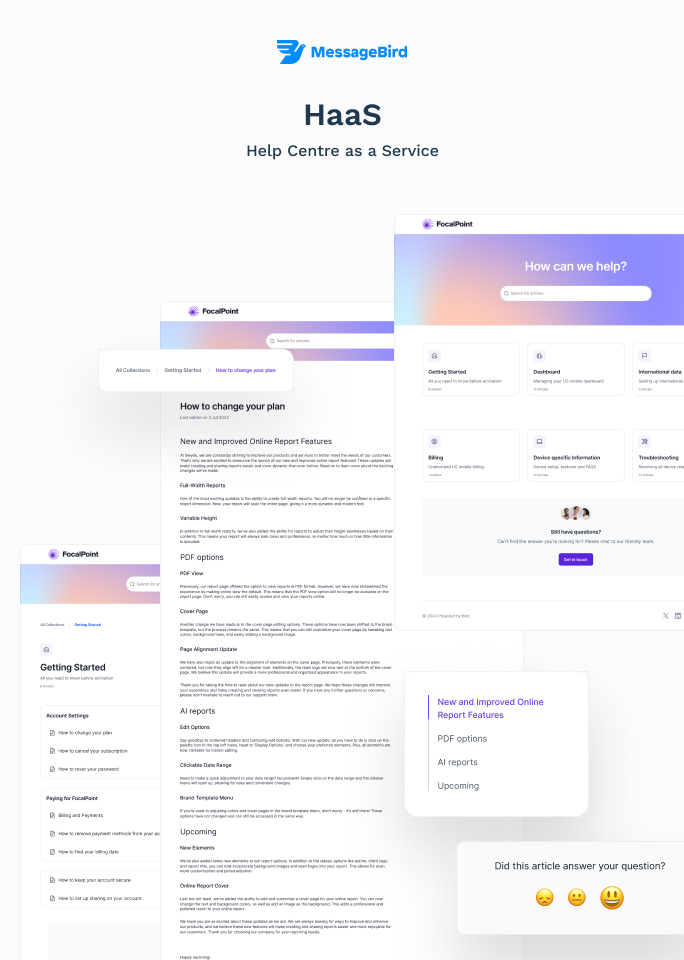
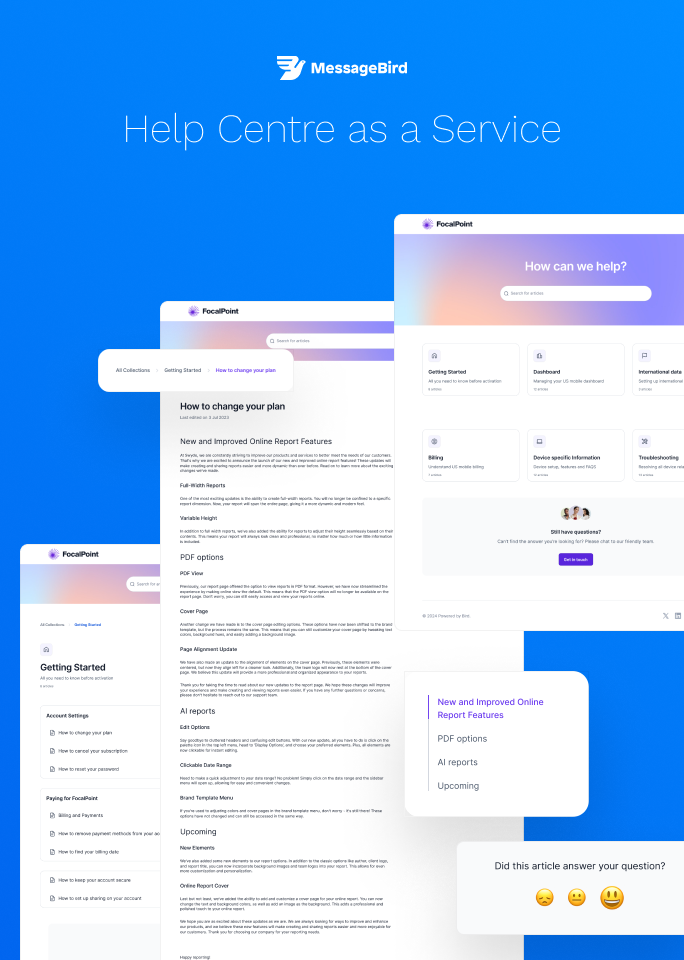
Swap Bird thumbnail and refine About page copy/spacing
Claude-Session: https://claude.ai/code/session_01V1xzVxDKxGXrWr1RrLiHkM

diff --git a/src/app/about/_components/values-section.tsx b/src/app/about/_components/values-section.tsx
@@ -37,11 +37,11 @@ export function ValuesSection() {
   return (
     <section className="page-px-wide w-full pt-20 pb-24">
       <h2 className="text-hero-statement max-w-[800px]">Our Work Helps Product Teams</h2>
-      <div className="mt-12 grid grid-cols-1 gap-x-12 gap-y-16 sm:grid-cols-2 lg:grid-cols-3">
+      <div className="mt-16 grid grid-cols-1 gap-x-16 gap-y-16 sm:grid-cols-2 lg:grid-cols-3">
         {values.map((value, index) => (
           <motion.div
             key={value.title}
-            className="border-t border-border pt-6"
+            className="border-t border-border pt-4"
             {...cardReveal}
             transition={{ ...cardReveal.transition, delay: index * 0.08 }}
           >

diff --git a/src/app/about/page.tsx b/src/app/about/page.tsx
@@ -20,7 +20,7 @@ export default function AboutPage() {
       <SiteHeader />
       <section className="page-px-wide w-full">
         <p className="text-hero-statement mt-30 max-w-[800px]">
-          We strive to craft tasteful and irresistible digital experiences.
+          We strive to craft tasteful and irresistible digital experiences for the next billion people.
         </p>
       </section>
       <section className="page-px-wide mt-16 w-full lg:mt-20">
